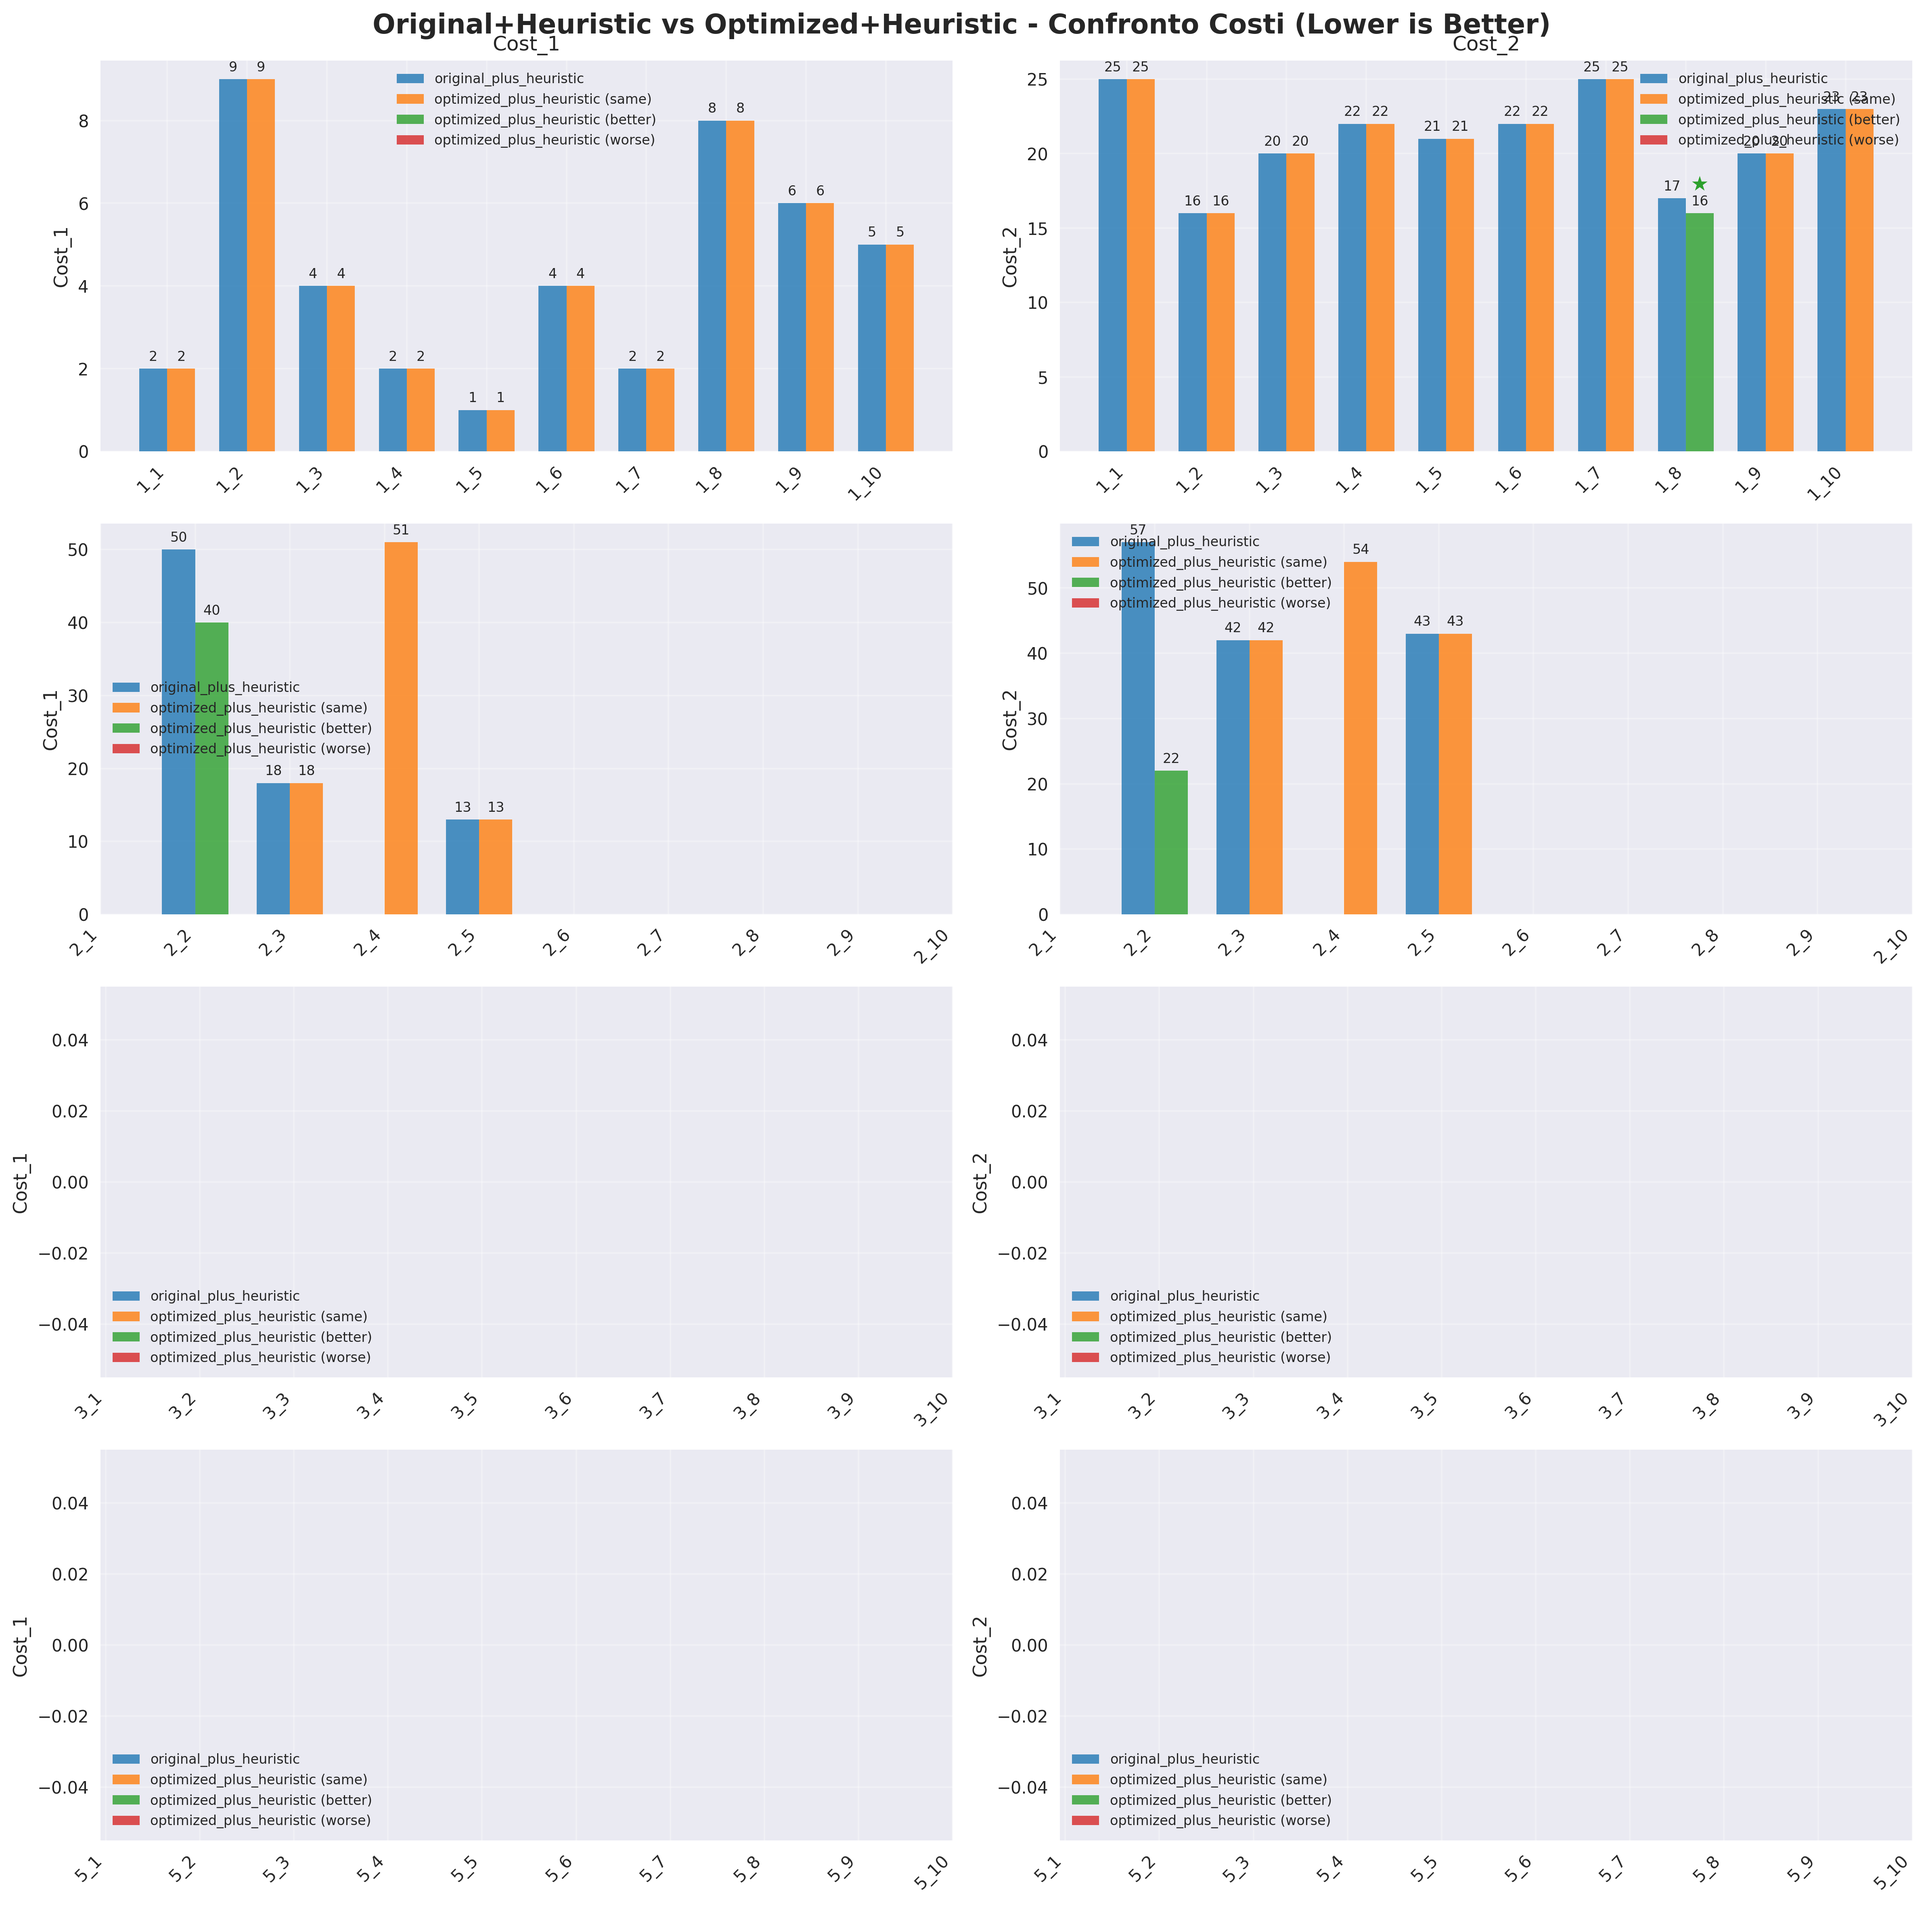
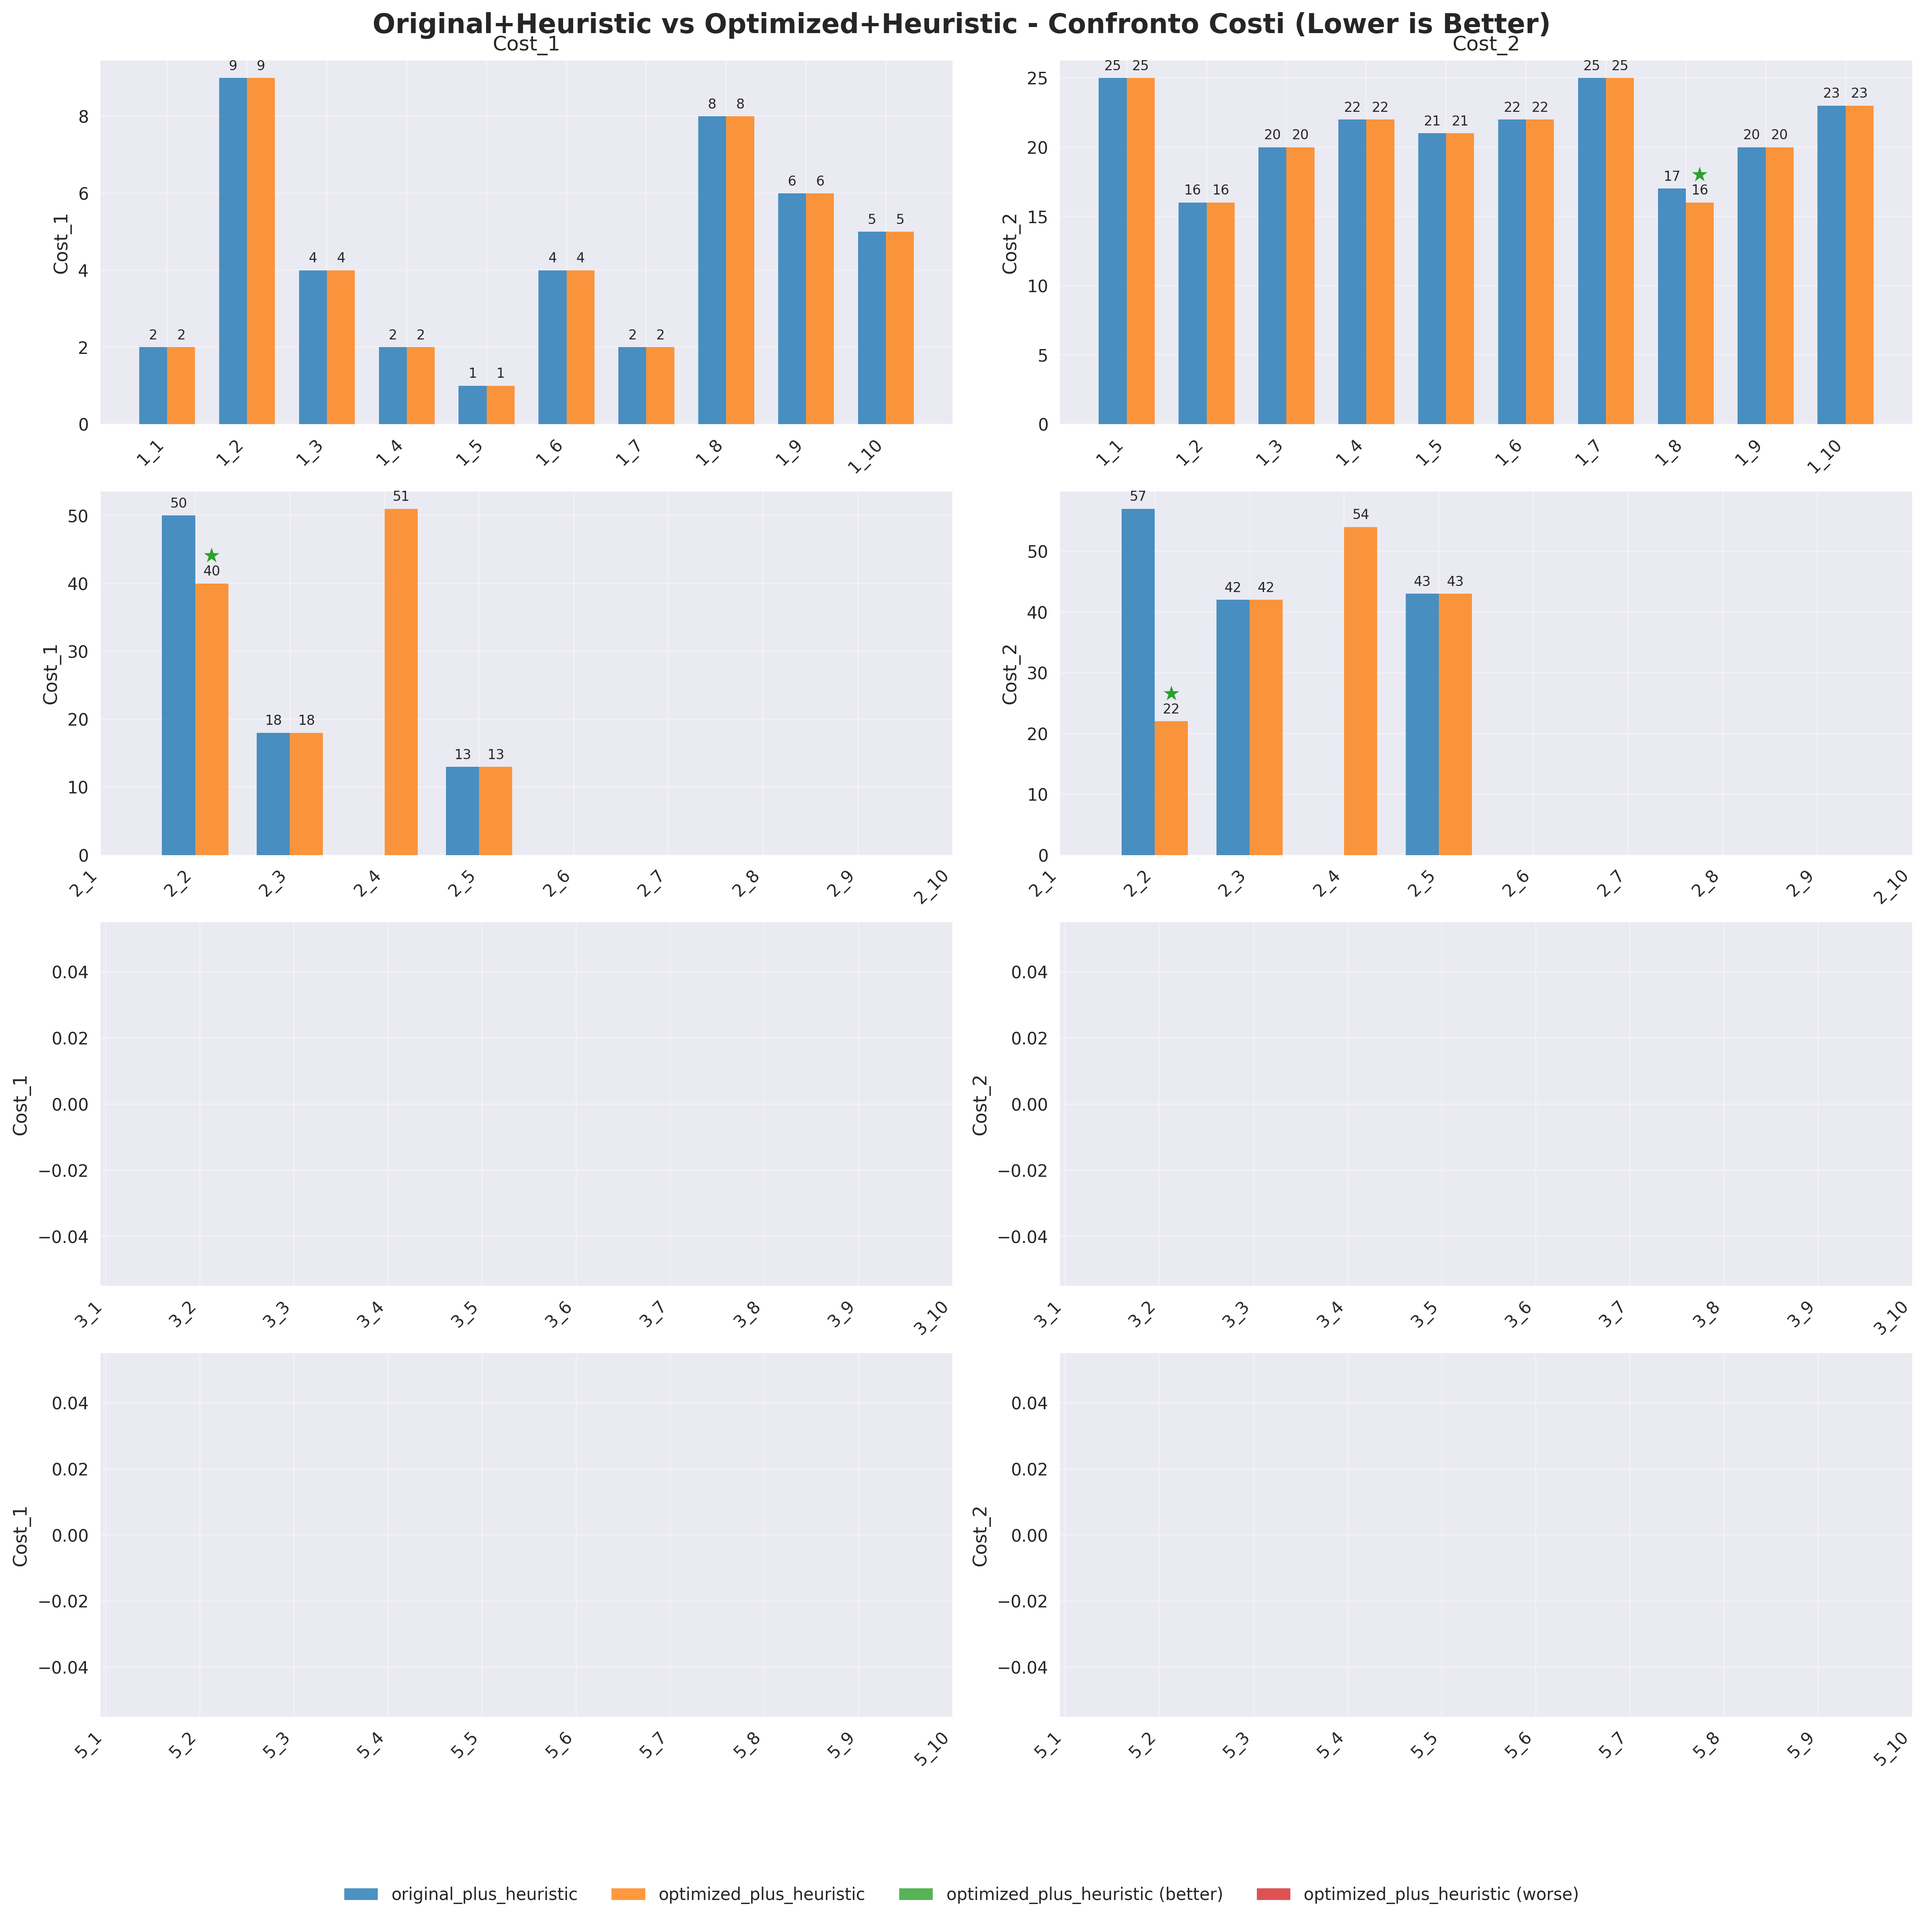
fix

diff --git a/Results/5_generate_graphs.py b/Results/5_generate_graphs.py
@@ -50,6 +50,10 @@ def create_cost_comparison_charts(df, encoding1, encoding2, title_prefix=""):
     
     fig.suptitle(f'{title_prefix} - Confronto Costi (Lower is Better)', fontsize=16, fontweight='bold')
     
+    # Colori fissi per i due encoding
+    color1 = '#1f77b4'  # Blu per il primo encoding
+    color2 = '#ff7f0e'  # Arancione per il secondo encoding
+    
     for group in range(n_groups):
         start_idx = group * 10
         end_idx = min(start_idx + 10, n_cases)
@@ -107,41 +111,16 @@ def create_cost_comparison_charts(df, encoding1, encoding2, title_prefix=""):
         x = np.arange(len(case_labels))
         width = 0.35
         
-        # Colori base
-        color1 = '#1f77b4'
-        color2 = '#ff7f0e'
-        
-        # Crea array di colori per evidenziare differenze
-        colors1 = [color1] * len(case_labels)
-        colors2 = []
-        for diff in cost1_differences:
-            if diff == 'better':
-                colors2.append('#2ca02c')  # Verde per miglioramento
-            elif diff == 'worse':
-                colors2.append('#d62728')  # Rosso per peggioramento
-            else:
-                colors2.append(color2)     # Arancione standard
-        
         bars1 = ax1.bar(x - width/2, cost1_data[encoding1], width, 
-                       label=encoding1, alpha=0.8, color=colors1)
+                       label=encoding1, alpha=0.8, color=color1)
         bars2 = ax1.bar(x + width/2, cost1_data[encoding2], width, 
-                       label=encoding2, alpha=0.8, color=colors2)
+                       label=encoding2, alpha=0.8, color=color2)
         
         ax1.set_ylabel('Cost_1')
         if group == 0:
             ax1.set_title('Cost_1')
         ax1.set_xticks(x)
         ax1.set_xticklabels(case_labels, rotation=45, ha='right')
-        
-        # Legenda semplificata con solo i due encoding
-        from matplotlib.patches import Patch
-        legend_elements = [
-            Patch(facecolor=color1, alpha=0.8, label=encoding1),
-            Patch(facecolor=color2, alpha=0.8, label=f'{encoding2} (same)'),
-            Patch(facecolor='#2ca02c', alpha=0.8, label=f'{encoding2} (better)'),
-            Patch(facecolor='#d62728', alpha=0.8, label=f'{encoding2} (worse)')
-        ]
-        ax1.legend(handles=legend_elements, fontsize=8)
         ax1.grid(True, alpha=0.3)
         
         # Aggiungi valori sulle barre e asterischi per differenze
@@ -159,34 +138,24 @@ def create_cost_comparison_charts(df, encoding1, encoding2, title_prefix=""):
                 
                 # Aggiungi asterisco per differenze
                 if diff is not None:
-                    ax1.text(bar2.get_x() + bar2.get_width() / 2, height2 + max(cost1_data[encoding1] + cost1_data[encoding2]) * 0.05,
+                    max_height = max([h for h in cost1_data[encoding1] + cost1_data[encoding2] if not np.isnan(h)])
+                    ax1.text(bar2.get_x() + bar2.get_width() / 2, height2 + max_height * 0.05,
                            '★', ha='center', va='bottom', fontsize=12, fontweight='bold',
                            color='#2ca02c' if diff == 'better' else '#d62728')
         
         # Grafico Cost_2
         ax2 = axes[group, 1]
         
-        # Colori per Cost_2
-        colors2_cost2 = []
-        for diff in cost2_differences:
-            if diff == 'better':
-                colors2_cost2.append('#2ca02c')  # Verde per miglioramento
-            elif diff == 'worse':
-                colors2_cost2.append('#d62728')  # Rosso per peggioramento
-            else:
-                colors2_cost2.append(color2)     # Arancione standard
-        
         bars3 = ax2.bar(x - width/2, cost2_data[encoding1], width, 
-                       label=encoding1, alpha=0.8, color=colors1)
+                       label=encoding1, alpha=0.8, color=color1)
         bars4 = ax2.bar(x + width/2, cost2_data[encoding2], width, 
-                       label=encoding2, alpha=0.8, color=colors2_cost2)
+                       label=encoding2, alpha=0.8, color=color2)
         
         ax2.set_ylabel('Cost_2')
         if group == 0:
             ax2.set_title('Cost_2')
         ax2.set_xticks(x)
         ax2.set_xticklabels(case_labels, rotation=45, ha='right')
-        ax2.legend(handles=legend_elements, fontsize=8)
         ax2.grid(True, alpha=0.3)
         
         # Aggiungi valori sulle barre e asterischi per differenze
@@ -204,11 +173,23 @@ def create_cost_comparison_charts(df, encoding1, encoding2, title_prefix=""):
                 
                 # Aggiungi asterisco per differenze
                 if diff is not None:
-                    ax2.text(bar4.get_x() + bar4.get_width() / 2, height4 + max(cost2_data[encoding1] + cost2_data[encoding2]) * 0.05,
+                    max_height = max([h for h in cost2_data[encoding1] + cost2_data[encoding2] if not np.isnan(h)])
+                    ax2.text(bar4.get_x() + bar4.get_width() / 2, height4 + max_height * 0.05,
                            '★', ha='center', va='bottom', fontsize=12, fontweight='bold',
                            color='#2ca02c' if diff == 'better' else '#d62728')
     
+    # Aggiungi una singola legenda per tutta la figura
+    from matplotlib.patches import Patch
+    legend_elements = [
+        Patch(facecolor=color1, alpha=0.8, label=encoding1),
+        Patch(facecolor=color2, alpha=0.8, label=encoding2),
+        Patch(facecolor='#2ca02c', alpha=0.8, label=f'{encoding2} (better)'),
+        Patch(facecolor='#d62728', alpha=0.8, label=f'{encoding2} (worse)')
+    ]
+    fig.legend(handles=legend_elements, loc='upper center', bbox_to_anchor=(0.5, 0.02), ncol=4, fontsize=10)
+    
     plt.tight_layout()
+    plt.subplots_adjust(bottom=0.1)  # Lascia spazio per la legenda
     return fig
 
 def create_time_comparison_chart(df, encoding1, encoding2, title_prefix=""):
@@ -255,7 +236,6 @@ def create_time_comparison_chart(df, encoding1, encoding2, title_prefix=""):
     ax.set_xticks(x[::2])  # Mostra ogni secondo label per evitare sovrapposizioni
     ax.set_xticklabels([case_labels[i] for i in range(0, len(case_labels), 2)], 
                       rotation=45, ha='right')
-    ax.legend()
     ax.grid(True, alpha=0.3)
     
     # Evidenzia quale encoding è più veloce per ogni caso
